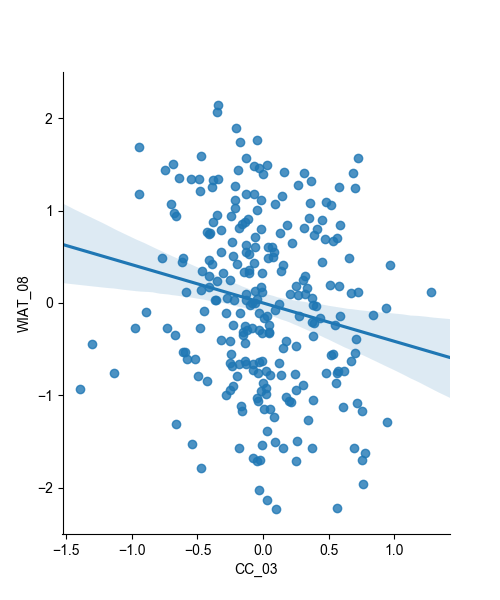
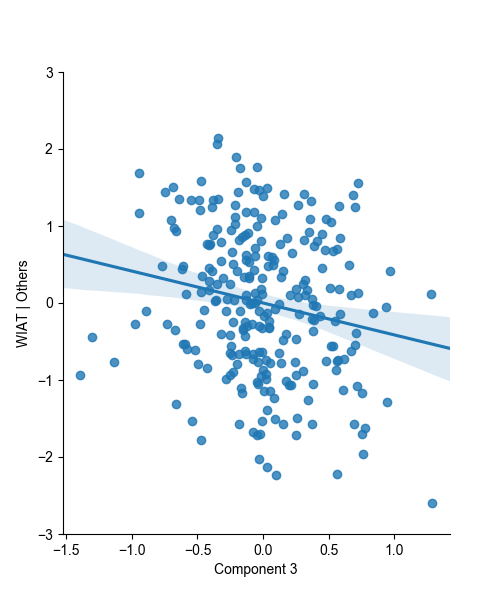
finalised adjusted variable plots

diff --git a/notebooks/scatterplots.py b/notebooks/scatterplots.py
@@ -19,21 +19,44 @@ sig_sets = [
         ('CC_03', 'WIAT_08'),
 ]
 
+labels = [
+        ('Component 1', 'Proverb'),
+        ('Component 3', 'Proverb'),
+        ('Component 1', 'WASI'),
+        ('Component 3', 'WASI'),
+        ('Component 1', 'WIAT'),
+        ('Component 3', 'WIAT')
+        ]
 
-def r_pearson(x, y):
-    return stats.pearsonr(x, y)[1]
+plt.close("all")
 
+sns.set_style({"font.sans-serif": ["Arial"]})
+f, ((ax11, ax12),
+        (ax21, ax22),
+        (ax31, ax32)) = plt.subplots(
+                3, 2, figsize=(6, 6),
+                sharex='col', sharey='row')
 
-for s in sig_sets:
+axes_lst = [ax11, ax12, ax21, ax22, ax31, ax32]
+
+for s, ax, label in zip(sig_sets, axes_lst, labels):
     x = dataset[s[0]]
     y = dataset[s[1]]
     X = df_X.drop(s[0], axis=1)
 
-    plt.close("all")#
+    g = sns.regplot(x, y, x_partial=X, y_partial=X,
+            marker='.', color='black', ax=ax)
+    ax.set_ylim(-3, 3)
     sns.despine()
-    sns.set_style({"font.sans-serif": ["Arial"]})
-    f, ax = plt.subplots(figsize=(5, 6))
-    g = sns.regplot(x, y, x_partial=X, y_partial=X, ax=ax)
-    g.set(ylim=(-3, 3))
-    sns.despine()
-    f.savefig('./reports/plots/resplots/{}_{}.png'.format(s[0], s[1]))
+    if label[1] == 'WIAT':
+        ax.set_xlabel(label[0])
+    else:
+        ax.set_xlabel('')
+    if label[0] == 'Component 1':
+        ax.set_ylabel('{} | Others'.format(label[1]))
+    else:
+        ax.set_ylabel(' ')
+f.suptitle('Adjested Variable Plots', fontsize='x-large')
+f.tight_layout()
+f.subplots_adjust(top=0.95)
+f.savefig('./reports/plots/av-plots.png')
